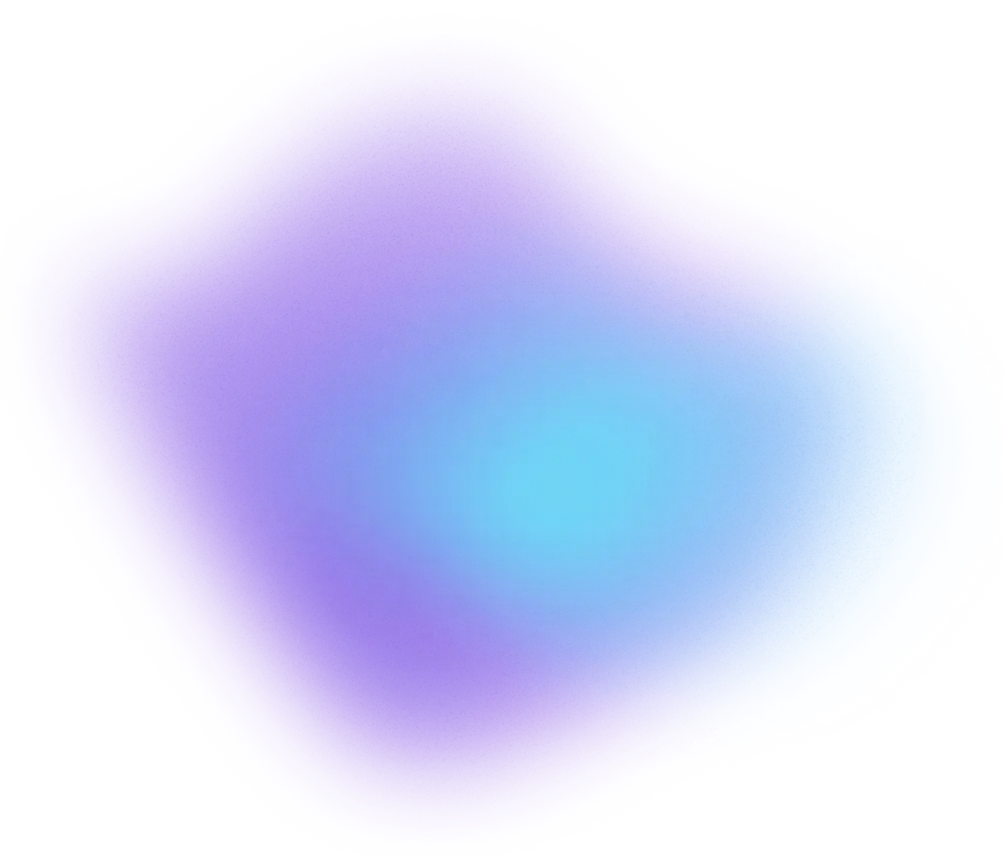
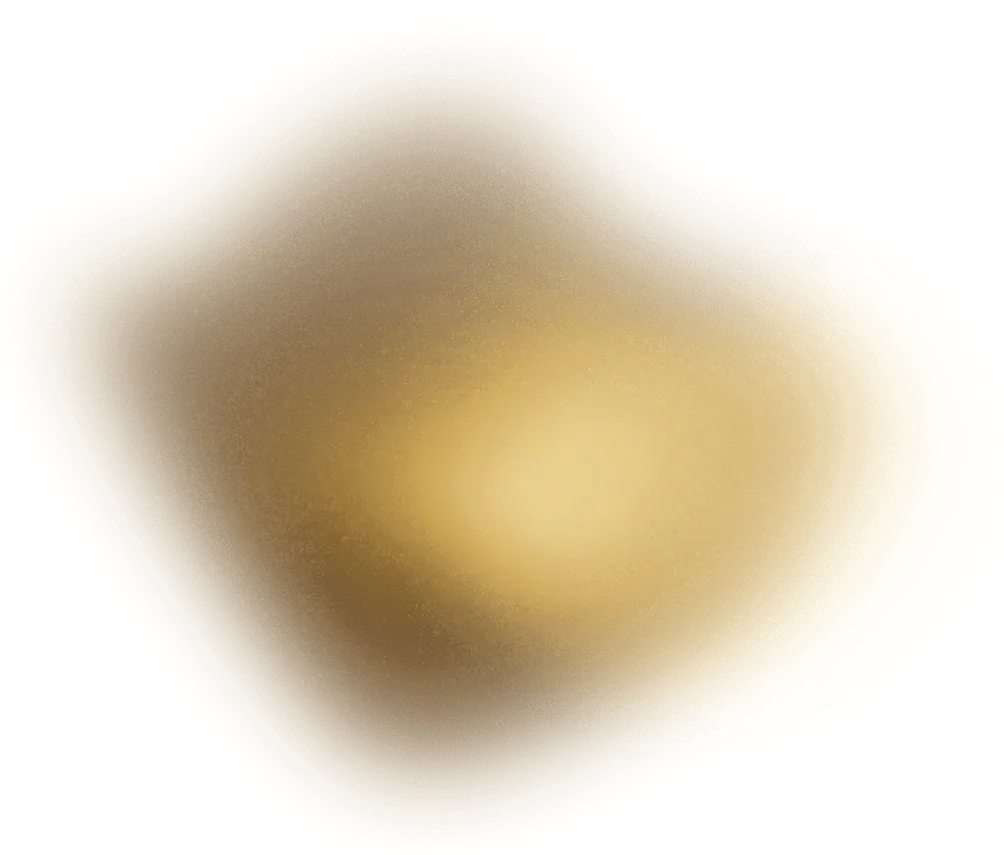
Landing: gold corner glow
The template's purple-azure noise gradient is recoloured along a gold ramp
(deep amber to the brand gold to champagne), keeping its grain and falloff,
and the Sign in button's blurred edge moves from azure to pale gold.

diff --git a/ui/src/landing.css b/ui/src/landing.css
@@ -2,7 +2,7 @@
 
    Left: the hero from the referenced SaaS landing template
    (techwithanirudh/shadcn-saas-landing, MIT): the hatched "bg-dashed"
-   ground, the purple-azure noise gradient rising from the bottom-right
+   ground, the noise gradient (recoloured gold) rising from the bottom-right
    corner, the announcement pill, a tight Geist headline and a muted lede.
    Right: the sign-in card, after the animated sign-in reference: box-reveal
    entrances, an input frame that glows under the pointer, the password eye
@@ -25,7 +25,7 @@
   --l-field: #27272a;
   --l-skeleton: #1a2335;
   --l-gold: #c9a85c;
-  --l-azure: #7c8cff;
+  --l-azure: #f3dc9a; /* pale gold: the button edge's blur */
 
   position: relative;
   display: flex;

diff --git a/ui/THIRD_PARTY.md b/ui/THIRD_PARTY.md
@@ -1,7 +1,7 @@
 # Third-party design credits
 
 - **Landing hero** (hatched background, gradient glow, pill, headline layout) and
-  `public/landing/glow.webp` (resized from `gradient-noise-purple-azure-light.png`):
+  `public/landing/glow.webp` (resized and recoloured gold from `gradient-noise-purple-azure-light.png`):
   [techwithanirudh/shadcn-saas-landing](https://github.com/techwithanirudh/shadcn-saas-landing),
   MIT License, Copyright (c) 2025 Anirudh.
 - **Sign-in card interactions** (box reveal, pointer-following input glow, password
